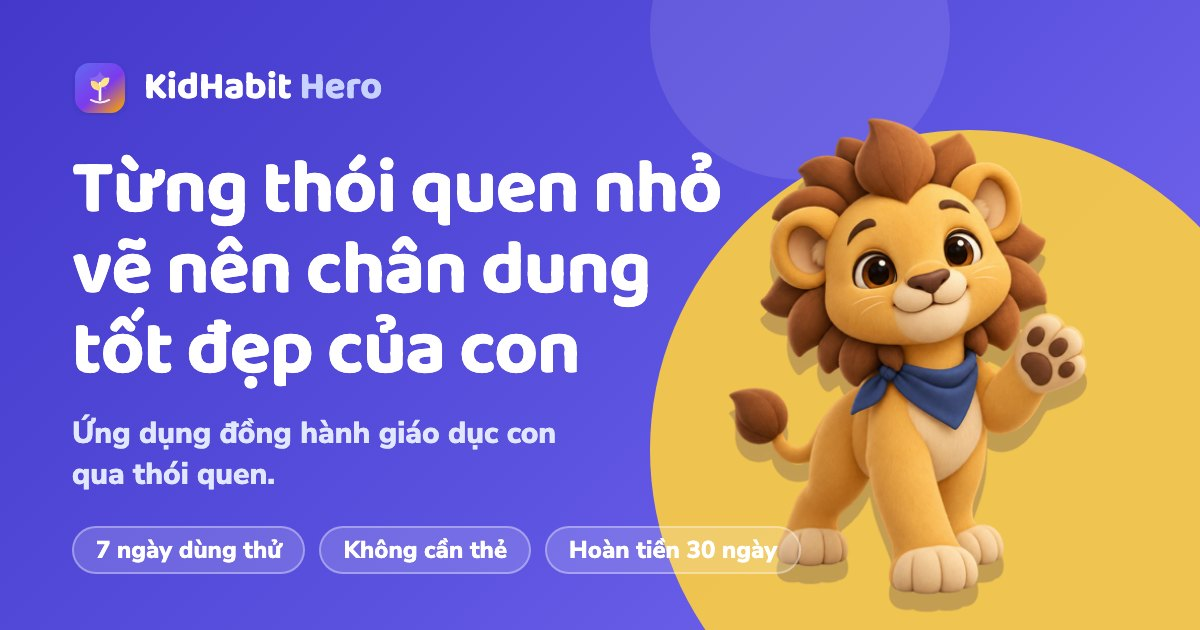
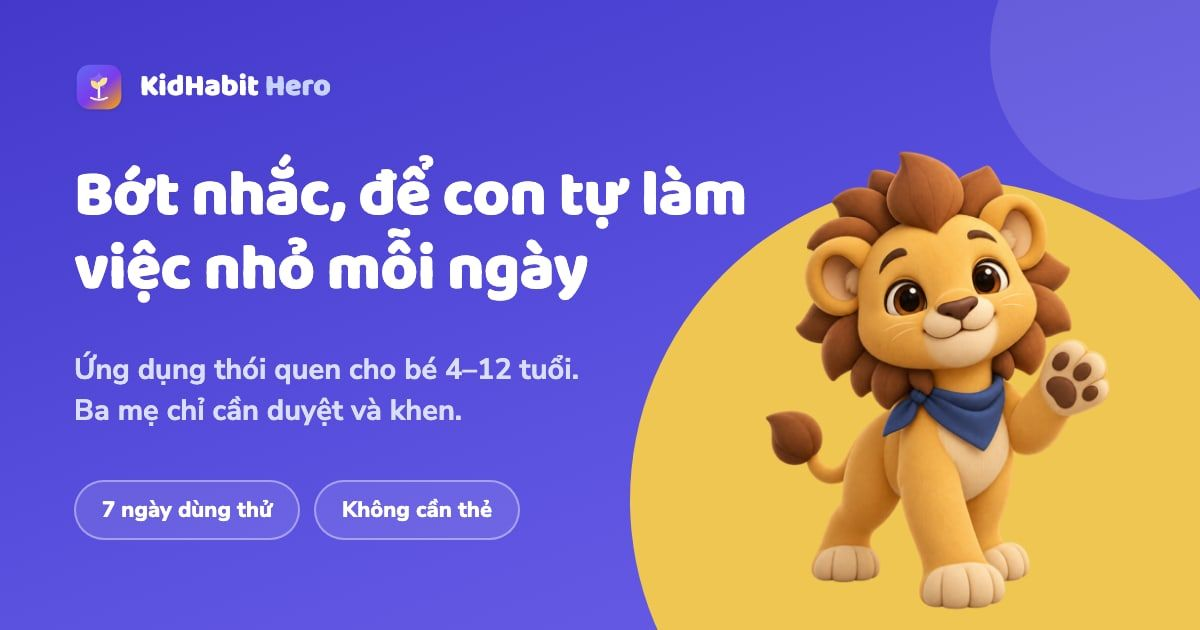
feat(marketing): a new share image with the current headline and a matching alt text

diff --git a/tests/unit/marketing-build.test.ts b/tests/unit/marketing-build.test.ts
@@ -270,6 +270,7 @@ describe('marketing static artifact', () => {
     expect(html).toMatch(/<h1>Bớt nhắc, để con tự làm việc nhỏ mỗi ngày<\/h1>/);
     expect(html).toContain('Ứng dụng thói quen cho bé 4–12 tuổi');
     expect(html).not.toContain('Từng thói quen nhỏ vẽ nên chân dung tốt đẹp của con</h1>');
+    expect(html).toContain('property="og:image:alt" content="Bớt nhắc, để con tự làm việc nhỏ mỗi ngày');
     expect(html.indexOf('Mỗi thói quen là một nét vẽ nên chân dung của con')).toBeGreaterThan(html.indexOf('id="cach-hoat-dong"'));
     expect(html).not.toMatch(/\b(số 1|top 1|#1)\b/i);
   });
